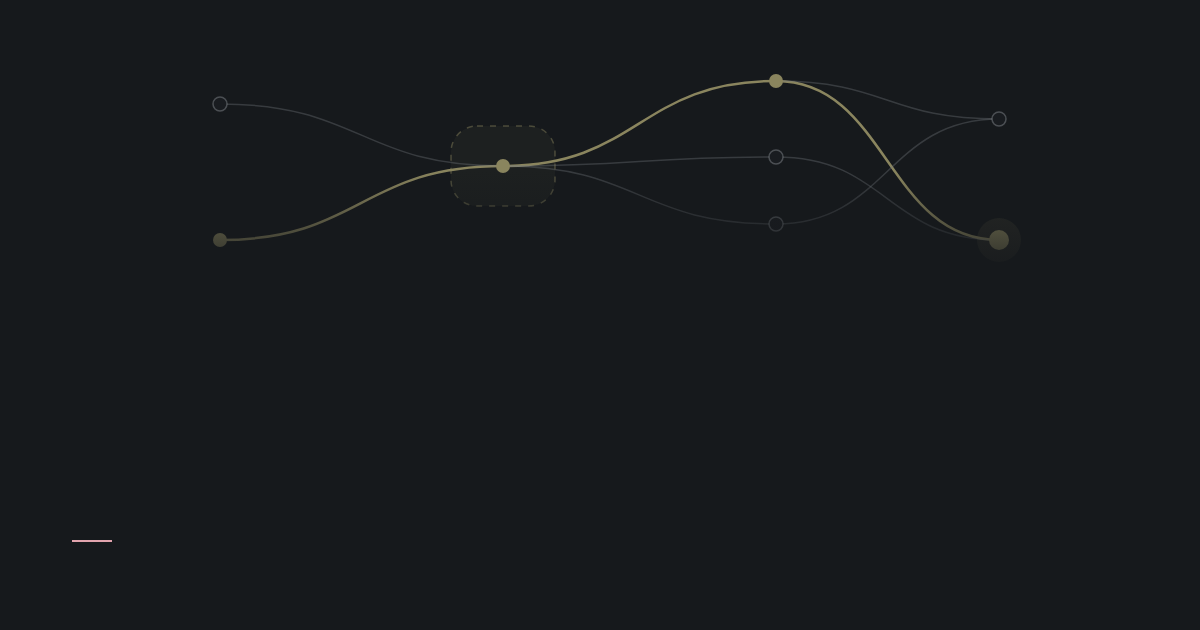
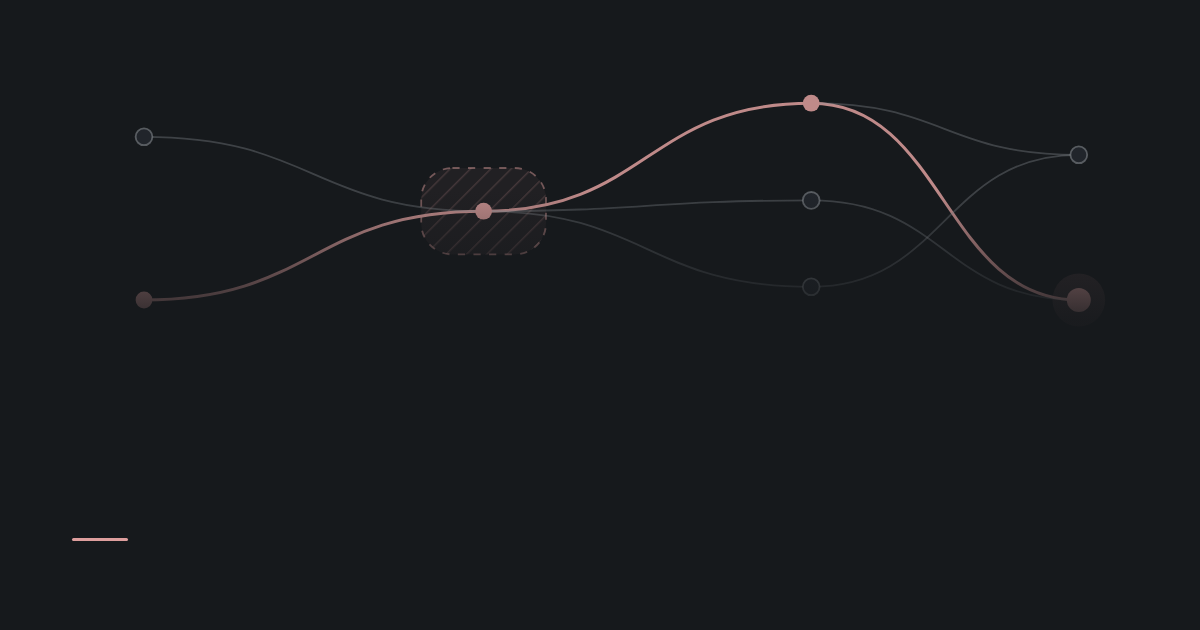
Vary the drawings and social cards: topic colours, outline shapes, hub layout (#41)
* Colour drawings and social cards by topic and vary their shapes

The drawing takes its hue from the page's first topic and the boundary's
from the second, so a topic is recognisable at a glance. Compositions now
vary more: twelve set shapes next to the free flow, three line styles,
three node marks, and a boundary that can carry faint dots or hatching.
A light tint and a soft glow behind the last node give the plate depth.
Social cards set the bar and the label in the topic's tone.

Claude-Session: https://claude.ai/code/session_0175HbppHQcEwuQax9mw2rqe

* Drop the glow behind the last node

Claude-Session: https://claude.ai/code/session_0175HbppHQcEwuQax9mw2rqe

* Pin the verify workflow to ubuntu-24.04

ubuntu-latest now resolves to Ubuntu 26.04, where the pinned Playwright
1.56.1 cannot install Chromium, so every verify job failed before any
build or test ran. Pin the three jobs until Playwright is updated.

Claude-Session: https://claude.ai/code/session_0175HbpkLdyNQ1rSk88TRmXW

* Draw from the article's outline, add a hub layout, topic dots and a pulse

Essays, talks and projects with three or more sections are drawn from
their own outline, and a series moves the boundary along with each part.
A quarter of the pages use a hub layout instead of the flow. Hues move
from inline styles to CSS classes, which also colour a small dot next to
topic names. A dot runs the highlighted path once after it draws in.
[…]

diff --git a/layouts/_partials/diagram.html b/layouts/_partials/diagram.html
@@ -1,77 +1,176 @@
 {{- /*
-Trust Boundaries: a quiet, deterministic flow drawing for any page. A hash of the page's identity
-picks everything: how many columns of nodes, how many nodes per column, which links cross, which
-path is highlighted, where the trust boundary sits and the page's own muted hue. No labels, so
-the drawing stays calm; no two pages share a composition.
+Trust Boundaries: a quiet, deterministic drawing for any page. The page's topics pick the colours.
+An essay, talk or project with three or more sections is drawn from its own outline: one column
+per section, more nodes for a longer or subdivided section, and the boundary on the column of its
+part in a series. Everything else comes from a hash of the page's identity: a set shape for pages
+without an outline, flow or hub layout, line style, node marks, the highlighted path. No labels,
+so the drawing stays calm; no two pages share a composition.
 
 Context: dict "page" PAGE, optional "seed" (string, overrides the page identity),
 "name" (view-transition name), "class".
-Always decorative. Colours come from CSS custom properties, so the drawing follows the theme.
+Always decorative. Colours come from CSS classes and custom properties, so the drawing follows the theme.
 */ -}}
 {{- $p := .page -}}
 {{- $seed := .seed | default (printf "%s|%s" (partial "data/id.html" $p) $p.Title) -}}
 {{- $h := md5 $seed -}}
 {{- $hex := dict "0" 0 "1" 1 "2" 2 "3" 3 "4" 4 "5" 5 "6" 6 "7" 7 "8" 8 "9" 9 "a" 10 "b" 11 "c" 12 "d" 13 "e" 14 "f" 15 -}}
 {{- $n := slice -}}{{- range seq 0 31 -}}{{- $n = $n | append (index $hex (substr $h . 1)) -}}{{- end -}}
-{{- $hue := index (slice 10 55 100 150 195 235 275 320) (mod (index $n 30) 8) -}}
 
-{{- /* Columns of nodes. Middle columns hold 1–3 nodes, the ends 1–2, so the shape varies a lot. */ -}}
-{{- $cols := add 3 (mod (index $n 0) 3) -}}
-{{- $step := div 820 (sub $cols 1) -}}
-{{- $nodes := slice }}{{ $colNodes := slice -}}
-{{- range $c := seq 0 (sub $cols 1) -}}
-  {{- $k := add 1 (mod (index $n (add 6 $c)) 3) -}}
-  {{- if or (eq $c 0) (eq $c (sub $cols 1)) }}{{ $k = add 1 (mod (index $n (add 6 $c)) 2) }}{{ end -}}
-  {{- $x := add (add 190 (mul $c $step)) (mul (sub (index $n (add 1 $c)) 7) 5) -}}
-  {{- $ids := slice -}}
+{{- /* Colour: the first topic's hue for the path (t-<topic>), the second topic's for the boundary
+   (u-<topic>). A page without a topic takes one of eight hues from the hash (h-<n>). */ -}}
+{{- $topics := slice -}}
+{{- with .seed }}{{ with (partial "data/topic.html" .).id }}{{ $topics = slice . }}{{ end }}{{ else }}{{ $topics = partial "data/topics.html" $p }}{{ end -}}
+{{- $tone := printf "h-%d" (mod (index $n 30) 8) -}}
+{{- with index $topics 0 }}{{ $tone = printf "t-%s" . }}{{ end -}}
+{{- if gt (len $topics) 1 }}{{ $tone = printf "%s u-%s" $tone (index $topics 1) }}{{ end -}}
+
+{{- /* Outline: nodes per section, from the section's length against the page's average and
+   whether it has subsections. At most six sections are drawn. */ -}}
+{{- $counts := slice }}{{ $outline := false -}}
+{{- if and (not .seed) (in (slice "essay" "talk" "project") (partial "data/kind.html" $p)) -}}
+  {{- $words := slice }}{{ $subs := slice }}{{ $total := 0 -}}
+  {{- range $i, $s := split $p.RawContent "\n## " }}{{ if and $i (lt (len $words) 6) -}}
+    {{- $w := countwords $s }}{{ $total = add $total $w -}}
+    {{- $words = $words | append $w }}{{ $subs = $subs | append (sub (len (split $s "\n### ")) 1) -}}
+  {{- end }}{{ end -}}
+  {{- if ge (len $words) 3 -}}
+    {{- $outline = true }}{{ $mean := div $total (len $words) -}}
+    {{- range $i, $w := $words -}}
+      {{- $k := 1 -}}
+      {{- if gt (mul $w 4) (mul $mean 3) }}{{ $k = add $k 1 }}{{ end -}}
+      {{- if gt (mul $w 2) (mul $mean 3) }}{{ $k = add $k 1 }}{{ end -}}
+      {{- if index $subs $i }}{{ $k = add $k 1 }}{{ end -}}
+      {{- if and (gt $k 3) (gt (len $words) 4) }}{{ $k = 3 }}{{ end -}}
+      {{- $counts = $counts | append $k -}}
+    {{- end -}}
+  {{- end -}}
+{{- end -}}
+{{- /* Without an outline: a third of the pages get a free flow (1–3 nodes per middle column); the
+   rest take one of the set shapes: fan-out, fan-in, diamond, relay through one party. */ -}}
+{{- if not $outline -}}
+  {{- $shapes := slice (slice 1 2 3 4) (slice 1 3 4) (slice 4 3 2 1) (slice 4 2 1) (slice 1 3 1) (slice 1 2 3 2 1) (slice 1 4 1) (slice 2 1 2) (slice 2 1 3 1) (slice 3 1 3) (slice 2 1 2 1 2) (slice 1 1 3) -}}
+  {{- if lt (index $n 0) 5 -}}
+    {{- $c := add 3 (mod (index $n 0) 3) -}}
+    {{- range $i := seq 0 (sub $c 1) -}}
+      {{- $k := add 1 (mod (index $n (add 6 $i)) 3) -}}
+      {{- if or (eq $i 0) (eq $i (sub $c 1)) }}{{ $k = add 1 (mod (index $n (add 6 $i)) 2) }}{{ end -}}
+      {{- $counts = $counts | append $k -}}
+    {{- end -}}
+  {{- else -}}
+    {{- $counts = index $shapes (mod (add (index $n 0) (index $n 31)) (len $shapes)) -}}
+  {{- end -}}
+{{- end -}}
+{{- $cols := len $counts -}}
+{{- /* Part in a series (0 for the first), or -1. */ -}}
+{{- $part := -1 -}}
+{{- if not .seed }}{{ with partial "data/series.html" $p }}{{ range $i, $sp := .pages }}{{ if eq $sp $p }}{{ $part = $i }}{{ end }}{{ end }}{{ end }}{{ end -}}
+
+{{- $nodes := slice }}{{ $edges := slice }}{{ $path := slice -}}
+{{- $bx := 0 }}{{ $by := 0 }}{{ $bw := 0 }}{{ $bh := 0 -}}
+{{- $hub := lt (index $n 4) 4 -}}
+{{- if $hub -}}
+  {{- /* Hub: one party in the middle, one spoke per section (four to eight), the path in through
+     one spoke and out through another. The boundary sits on the hub or on the path's last node. */ -}}
+  {{- $k := add 5 (mod (index $n 0) 4) -}}
+  {{- if $outline }}{{ $k = cond (lt $cols 4) 4 $cols }}{{ end -}}
+  {{- $cx := add 600 (mul (sub (index $n 1) 7) 6) -}}
+  {{- $nodes = $nodes | append (dict "x" $cx "y" 200 "mark" (mod (index $n 18) 3)) -}}
+  {{- $from := mod (index $n 24) $k }}{{ $to := mod (add $from (add (div $k 2) (mod (index $n 25) 2))) $k -}}
+  {{- $turn := mul (index $n 2) 4 -}}
   {{- range $i := seq 0 (sub $k 1) -}}
-    {{- $gap := cond (eq $k 3) 85 130 -}}
-    {{- $y := add (sub 200 (div (mul $gap (sub $k 1)) 2)) (mul $i $gap) -}}
-    {{- $y = add $y (mul (sub (index $n (mod (add 12 (add (mul $c 3) $i)) 32)) 7) 3) -}}
-    {{- $ids = $ids | append (len $nodes) -}}
-    {{- $nodes = $nodes | append (dict "x" $x "y" $y) -}}
+    {{- $deg := add (add (div (mul 360 $i) $k) $turn) (mul (sub (index $n (add 6 $i)) 7) 2) -}}
+    {{- $rad := div (mul (float $deg) math.Pi) 180 -}}
+    {{- $x := add $cx (int (math.Round (mul 400 (math.Cos $rad)))) }}{{ $y := add 200 (int (math.Round (mul 118 (math.Sin $rad)))) -}}
+    {{- $nodes = $nodes | append (dict "x" $x "y" $y "mark" (mod (index $n (add 19 (mod $i 5))) 3)) -}}
   {{- end -}}
-  {{- $colNodes = $colNodes | append (dict "ids" $ids) -}}
-{{- end -}}
-
-{{- /* Highlighted path: one node per column, chosen by the hash. */ -}}
-{{- $path := slice -}}
-{{- range $c, $col := $colNodes }}{{ $path = $path | append (index $col.ids (mod (index $n (add 24 $c)) (len $col.ids))) }}{{ end -}}
-
-{{- /* Links between neighbouring columns: every node has a way in and out, plus the highlighted path. */ -}}
-{{- $seen := dict }}{{ $edges := slice -}}
-{{- range $c := seq 0 (sub $cols 2) -}}
-  {{- $from := (index $colNodes $c).ids }}{{ $to := (index $colNodes (add $c 1)).ids -}}
-  {{- $pairs := slice (slice (index $path $c) (index $path (add $c 1)) true) -}}
-  {{- range $i, $a := $from }}{{ $pairs = $pairs | append (slice $a (index $to (mod $i (len $to))) false) }}{{ end -}}
-  {{- range $j, $b := $to }}{{ $pairs = $pairs | append (slice (index $from (mod $j (len $from))) $b false) }}{{ end -}}
-  {{- range $pairs -}}
-    {{- $key := printf "%d-%d" (index . 0) (index . 1) -}}
-    {{- if not (index $seen $key) }}{{ $seen = merge $seen (dict $key true) }}{{ $edges = $edges | append (dict "a" (index . 0) "b" (index . 1) "hi" (index . 2)) }}{{ end -}}
+  {{- $edges = slice (dict "a" (add $from 1) "b" 0 "hi" true) (dict "a" 0 "b" (add $to 1) "hi" true) -}}
+  {{- range $i := seq 0 (sub $k 1) }}{{ if and (ne $i $from) (ne $i $to) }}{{ $edges = $edges | append (dict "a" 0 "b" (add $i 1) "hi" false) }}{{ end }}{{ end -}}
+  {{- $path = slice (add $from 1) 0 (add $to 1) -}}
+  {{- $at := index $nodes (cond (eq (mod (index $n 10) 3) 0) (add $to 1) 0) -}}
+  {{- $bx = sub $at.x 70 }}{{ $by = sub $at.y 44 }}{{ $bw = 140 }}{{ $bh = 88 -}}
+{{- else -}}
+  {{- /* Flow: columns of nodes, left to right. */ -}}
+  {{- $step := div 820 (sub $cols 1) -}}
+  {{- $gaps := slice 0 0 130 90 64 -}}
+  {{- $colNodes := slice -}}
+  {{- range $c, $k := $counts -}}
+    {{- $x := add (add 190 (mul $c $step)) (mul (sub (index $n (add 1 $c)) 7) (cond (gt $cols 5) 3 5)) -}}
+    {{- $mark := mod (index $n (add 18 $c)) 3 -}}
+    {{- $ids := slice -}}
+    {{- range $i := seq 0 (sub $k 1) -}}
+      {{- $gap := index $gaps $k -}}
+      {{- $y := add (sub 200 (div (mul $gap (sub $k 1)) 2)) (mul $i $gap) -}}
+      {{- $y = add $y (mul (sub (index $n (mod (add 12 (add (mul $c 3) $i)) 32)) 7) (cond (eq $k 4) 2 3)) -}}
+      {{- $ids = $ids | append (len $nodes) -}}
+      {{- $nodes = $nodes | append (dict "x" $x "y" $y "mark" $mark) -}}
+    {{- end -}}
+    {{- $colNodes = $colNodes | append (dict "ids" $ids) -}}
   {{- end -}}
+  {{- /* Highlighted path: one node per column, chosen by the hash. */ -}}
+  {{- range $c, $col := $colNodes }}{{ $path = $path | append (index $col.ids (mod (index $n (add 24 $c)) (len $col.ids))) }}{{ end -}}
+  {{- /* Links between neighbouring columns: every node has a way in and out, plus the highlighted path. */ -}}
+  {{- $seen := dict -}}
+  {{- range $c := seq 0 (sub $cols 2) -}}
+    {{- $from := (index $colNodes $c).ids }}{{ $to := (index $colNodes (add $c 1)).ids -}}
+    {{- $pairs := slice (slice (index $path $c) (index $path (add $c 1)) true) -}}
+    {{- range $i, $a := $from }}{{ $pairs = $pairs | append (slice $a (index $to (mod $i (len $to))) false) }}{{ end -}}
+    {{- range $j, $b := $to }}{{ $pairs = $pairs | append (slice (index $from (mod $j (len $from))) $b false) }}{{ end -}}
+    {{- range $pairs -}}
+      {{- $key := printf "%d-%d" (index . 0) (index . 1) -}}
+      {{- if not (index $seen $key) }}{{ $seen = merge $seen (dict $key true) }}{{ $edges = $edges | append (dict "a" (index . 0) "b" (index . 1) "hi" (index . 2)) }}{{ end -}}
+    {{- end -}}
+  {{- end -}}
+  {{- /* Trust boundary around one or two neighbouring columns (never the first). In a series it
+     sits on the column of the page's part, so it moves along from one part to the next. */ -}}
+  {{- $b0 := add 1 (mod (index $n 10) (sub $cols 1)) -}}
+  {{- if ge $part 0 }}{{ $b0 = add 1 (mod $part (sub $cols 1)) }}{{ end -}}
+  {{- $b1 := $b0 }}{{ if and (eq (mod (index $n 11) 3) 0) (lt (add $b0 1) $cols) }}{{ $b1 = add $b0 1 }}{{ end -}}
+  {{- $minx := 2000 }}{{ $maxx := 0 }}{{ $miny := 2000 }}{{ $maxy := 0 -}}
+  {{- range seq $b0 $b1 }}{{ range (index $colNodes .).ids }}{{ $nd := index $nodes . -}}
+    {{- $minx = cond (lt $nd.x $minx) $nd.x $minx }}{{ $maxx = cond (gt $nd.x $maxx) $nd.x $maxx -}}
+    {{- $miny = cond (lt $nd.y $miny) $nd.y $miny }}{{ $maxy = cond (gt $nd.y $maxy) $nd.y $maxy -}}
+  {{- end }}{{ end -}}
+  {{- $bx = sub $minx 52 }}{{ $by = sub $miny 36 }}{{ $bw = add (sub $maxx $minx) 104 }}{{ $bh = add (sub $maxy $miny) 72 -}}
 {{- end -}}
-
-{{- /* Trust boundary around one or two neighbouring columns (never the first). */ -}}
-{{- $b0 := add 1 (mod (index $n 10) (sub $cols 1)) -}}
-{{- $b1 := $b0 }}{{ if and (eq (mod (index $n 11) 3) 0) (lt (add $b0 1) $cols) }}{{ $b1 = add $b0 1 }}{{ end -}}
-{{- $minx := 2000 }}{{ $maxx := 0 }}{{ $miny := 2000 }}{{ $maxy := 0 -}}
-{{- range seq $b0 $b1 }}{{ range (index $colNodes .).ids }}{{ $nd := index $nodes . -}}
-  {{- $minx = cond (lt $nd.x $minx) $nd.x $minx }}{{ $maxx = cond (gt $nd.x $maxx) $nd.x $maxx -}}
-  {{- $miny = cond (lt $nd.y $miny) $nd.y $miny }}{{ $maxy = cond (gt $nd.y $maxy) $nd.y $maxy -}}
-{{- end }}{{ end -}}
-{{- $bx := sub $minx 52 }}{{ $by := sub $miny 40 }}{{ $bw := add (sub $maxx $minx) 104 }}{{ $bh := add (sub $maxy $miny) 80 -}}
-{{- $end := index $nodes (index $path (sub $cols 1)) -}}
-{{- $style := printf "--h: %d" $hue }}{{ with .name }}{{ $style = printf "%s; view-transition-name: %s" $style . }}{{ end -}}
-<svg class="diagram {{ .class }}" viewBox="0 0 1200 400" xmlns="http://www.w3.org/2000/svg" preserveAspectRatio="xMidYMid slice" aria-hidden="true" focusable="false" style="{{ $style | safeCSS }}">
+{{- $endId := index $path (sub (len $path) 1) }}{{ $end := index $nodes $endId -}}
+{{- $id := substr $h 0 6 -}}
+{{- $line := index (slice 0 0 0 0 0 0 0 0 2 2 2 2 2 1 1 1) (index $n 5) -}}
+{{- if $hub }}{{ $line = 1 }}{{ end -}}
+{{- $fill := mod (index $n 29) 3 -}}
+{{- $pulses := slice -}}
+<svg class="diagram {{ $tone }}{{ with .class }} {{ . }}{{ end }}" viewBox="0 0 1200 400" xmlns="http://www.w3.org/2000/svg" preserveAspectRatio="xMidYMid slice" aria-hidden="true" focusable="false"{{ with .name }} style="{{ printf "view-transition-name: %s" . | safeCSS }}"{{ end }}>
+{{ if $fill }}<defs>
+{{- if eq $fill 1 }}<pattern id="p{{ $id }}" width="18" height="18" patternUnits="userSpaceOnUse"><circle cx="9" cy="9" r="1.2" class="d-fill"/></pattern>{{ end -}}
+{{- if eq $fill 2 }}<pattern id="p{{ $id }}" width="12" height="12" patternUnits="userSpaceOnUse" patternTransform="rotate(45)"><rect width="1.2" height="12" class="d-fill"/></pattern>{{ end -}}
+</defs>{{ end }}
 <rect width="1200" height="400" class="d-ground"/>
+{{- if $fill }}
+<rect x="{{ $bx }}" y="{{ $by }}" width="{{ $bw }}" height="{{ $bh }}" rx="26" fill="url(#p{{ $id }})"/>
+{{- end }}
 <rect x="{{ $bx }}" y="{{ $by }}" width="{{ $bw }}" height="{{ $bh }}" rx="26" class="d-boundary"/>
-{{- range $ei, $e := $edges -}}
-  {{- $a := index $nodes $e.a }}{{ $b := index $nodes $e.b }}{{ $mx := div (add $a.x $b.x) 2 }}
-<path d="M{{ $a.x }} {{ $a.y }}C{{ $mx }} {{ $a.y }} {{ $mx }} {{ $b.y }} {{ $b.x }} {{ $b.y }}" class="d-edge{{ if $e.hi }} hi{{ end }}"{{ if $e.hi }} pathLength="1" style="--i: {{ $ei }}"{{ end }}/>
+{{- range $e := $edges -}}
+  {{- $a := index $nodes $e.a }}{{ $b := index $nodes $e.b }}{{ $mx := div (add $a.x $b.x) 2 -}}
+  {{- $d := printf "M%d %dC%d %d %d %d %d %d" $a.x $a.y $mx $a.y $mx $b.y $b.x $b.y -}}
+  {{- if eq $line 1 }}{{ $d = printf "M%d %dL%d %d" $a.x $a.y $b.x $b.y }}{{ end -}}
+  {{- if eq $line 2 -}}
+    {{- $dy := sub $b.y $a.y }}{{ $ady := cond (lt $dy 0) (sub 0 $dy) $dy -}}
+    {{- $dx := sub $b.x $a.x }}{{ $adx := cond (lt $dx 0) (sub 0 $dx) $dx -}}
+    {{- $r := cond (lt $ady 32) (div $ady 2) 16 }}{{ $r = cond (lt $adx (mul $r 2)) (div $adx 2) $r -}}
+    {{- $ry := cond (lt $dy 0) (sub 0 $r) $r }}{{ $rx := cond (lt $dx 0) (sub 0 $r) $r -}}
+    {{- $d = printf "M%d %dH%dQ%d %d %d %dV%dQ%d %d %d %dH%d" $a.x $a.y (sub $mx $rx) $mx $a.y $mx (add $a.y $ry) (sub $b.y $ry) $mx $b.y (add $mx $rx) $b.y $b.x -}}
+  {{- end -}}
+  {{- if $e.hi }}{{ $pulses = $pulses | append $d }}{{ end }}
+<path d="{{ $d }}" class="d-edge{{ if $e.hi }} hi{{ end }}"{{ if $e.hi }} pathLength="1"{{ end }}/>
+{{- end }}
+{{- range $i, $d := $pulses }}
+<path d="{{ $d }}" class="d-pulse s{{ $i }}" pathLength="1"/>
 {{- end }}
 <circle cx="{{ $end.x }}" cy="{{ $end.y }}" r="22" class="d-halo"/>
-{{- range $i, $nd := $nodes }}
-<circle cx="{{ $nd.x }}" cy="{{ $nd.y }}" r="{{ cond (eq $i (index $path (sub $cols 1))) 10 7 }}" class="d-node{{ if in $path $i }} hi{{ end }}"/>
+{{- range $i, $nd := $nodes -}}
+  {{- $last := eq $i $endId }}{{ $r := cond $last 10 7 }}{{ $class := printf "d-node%s" (cond (in $path $i) " hi" "") }}
+{{ if eq $nd.mark 1 }}<rect x="{{ sub $nd.x $r }}" y="{{ sub $nd.y $r }}" width="{{ mul $r 2 }}" height="{{ mul $r 2 }}" rx="3" class="{{ $class }}"/>
+{{- else if eq $nd.mark 2 }}{{ $q := add $r 2 }}<path d="M{{ $nd.x }} {{ sub $nd.y $q }}l{{ $q }} {{ $q }}-{{ $q }} {{ $q }}-{{ $q }}-{{ $q }}z" class="{{ $class }}"/>
+{{- else }}<circle cx="{{ $nd.x }}" cy="{{ $nd.y }}" r="{{ $r }}" class="{{ $class }}"/>{{ end }}
 {{- end }}
 </svg>
 {{- /* end diagram */ -}}

diff --git a/assets/css/site.css b/assets/css/site.css
@@ -514,20 +514,34 @@
 }
 
 @layer diagram {
-  /* Each drawing sets its own hue (--h); tone and lightness are shared, so all of them stay quiet. */
-  .diagram { --dg: var(--ground-2); --tone: light-dark(oklch(55% 0.1 var(--h, 8)), oklch(76% 0.075 var(--h, 8))); }
+  /* A drawing takes its hues from the page's topics: t-<topic> for the path, u-<topic> for the boundary; h-<n> without a
+     topic. Tone and lightness are shared, so all of them stay quiet. The same tone colours the topic dots. */
+  .t-agentic-engineering { --h: 290; } .t-identity-authentication { --h: 240; } .t-application-security { --h: 20; } .t-passwords { --h: 75; } .t-tokens-jwt { --h: 150; } .t-engineering-practice { --h: 195; }
+  .u-agentic-engineering { --h2: 290; } .u-identity-authentication { --h2: 240; } .u-application-security { --h2: 20; } .u-passwords { --h2: 75; } .u-tokens-jwt { --h2: 150; } .u-engineering-practice { --h2: 195; }
+  .h-0 { --h: 10; } .h-1 { --h: 55; } .h-2 { --h: 100; } .h-3 { --h: 150; } .h-4 { --h: 195; } .h-5 { --h: 235; } .h-6 { --h: 275; } .h-7 { --h: 320; }
+  .diagram, .dot { --tone: light-dark(oklch(55% 0.1 var(--h, 8)), oklch(76% 0.075 var(--h, 8))); }
+  .diagram { --tone2: light-dark(oklch(55% 0.1 var(--h2, var(--h, 8))), oklch(76% 0.075 var(--h2, var(--h, 8)))); --dg: color-mix(in oklch, var(--tone) 5%, var(--ground-2)); }
+  .dot { display: inline-block; width: 0.5em; height: 0.5em; border-radius: 50%; background: var(--tone); margin-right: 0.4em; vertical-align: 0.08em; }
   .diagram .d-ground { fill: var(--dg); }
-  .diagram .d-boundary { fill: color-mix(in oklch, var(--tone) 7%, transparent); stroke: color-mix(in oklch, var(--tone) 45%, transparent); stroke-width: 1.5; stroke-dasharray: 6 7; }
+  .diagram .d-fill { fill: color-mix(in oklch, var(--tone2) 22%, transparent); }
+  .diagram .d-boundary { fill: color-mix(in oklch, var(--tone2) 7%, transparent); stroke: color-mix(in oklch, var(--tone2) 55%, transparent); stroke-width: 1.5; stroke-dasharray: 6 7; }
   .diagram .d-edge { fill: none; stroke: color-mix(in oklch, var(--ink-2) 35%, transparent); stroke-width: 1.5; }
-  .diagram .d-edge.hi { stroke: var(--tone); stroke-width: 2.5; stroke-linecap: round; stroke-dasharray: 1; stroke-dashoffset: 0; }
+  .diagram .d-edge.hi { stroke: var(--tone); stroke-width: 2.5; stroke-linecap: round; stroke-linejoin: round; stroke-dasharray: 1; stroke-dashoffset: 0; }
   .diagram .d-node { fill: var(--dg); stroke: color-mix(in oklch, var(--ink-2) 55%, transparent); stroke-width: 1.5; }
   .diagram .d-node.hi { fill: var(--tone); stroke: none; }
   .diagram .d-halo { fill: color-mix(in oklch, var(--tone) 16%, transparent); }
+  /* The pulse: a dot (a zero-length dash with a round cap) that runs the highlighted path once, segment by segment. */
+  .diagram .d-pulse { fill: none; stroke: color-mix(in oklch, var(--tone) 45%, var(--ink)); stroke-width: 7; stroke-linecap: round; stroke-dasharray: 0 1; opacity: 0; }
+  .s1 { --s: 1; } .s2 { --s: 2; } .s3 { --s: 3; } .s4 { --s: 4; }
   @media (prefers-reduced-motion: no-preference) {
     .diagram .d-edge.hi { animation: draw 1.2s var(--ease) backwards; animation-delay: 200ms; }
     .diagram .d-halo { animation: fade 0.8s var(--ease) backwards; animation-delay: 1s; }
+    .diagram .d-pulse { animation: pulse 0.5s linear calc(1.6s + var(--s, 0) * 0.5s); }
+    a:hover > .diagram .d-pulse { animation: pulse-again 0.5s linear calc(var(--s, 0) * 0.5s); }
     @keyframes draw { from { stroke-dashoffset: 1; } }
     @keyframes fade { from { opacity: 0; } }
+    @keyframes pulse { from { stroke-dashoffset: 0; opacity: 1; } to { stroke-dashoffset: -1; opacity: 1; } }
+    @keyframes pulse-again { from { stroke-dashoffset: 0; opacity: 1; } to { stroke-dashoffset: -1; opacity: 1; } }
   }
   @media (prefers-reduced-motion: reduce) {
     @view-transition { navigation: none; }

diff --git a/layouts/_partials/social-card.html b/layouts/_partials/social-card.html
@@ -11,11 +11,17 @@
   {{- if .IsHome }}{{ $title = site.Params.statement }}{{ end -}}
   {{- $size := 64 }}{{ if gt (len $title) 60 }}{{ $size = 54 }}{{ end }}{{ if gt (len $title) 95 }}{{ $size = 46 }}{{ end -}}
   {{- $label := "JANBRENNENSTUHL.EU" -}}
-  {{- with partial "data/topic.html" $topic }}{{ $label = printf "%s  /  %s" $label (upper .title) }}{{ end -}}
+  {{- $tone := "#e2a4ae" -}}
+  {{- with partial "data/topic.html" $topic }}{{ $label = printf "%s  /  %s" $label (upper .title) }}{{ with .card }}{{ $tone = . }}{{ end }}{{ end -}}
   {{- $filters := slice
     (images.Text $title (dict "font" $font "size" $size "linespacing" (int (mul $size 0.18)) "x" 72 "y" 330 "color" "#dfe1e5"))
-    (images.Text $label (dict "font" $mono "size" 22 "x" 72 "y" 560 "color" "#e2a4ae"))
+    (images.Text $label (dict "font" $mono "size" 22 "x" 72 "y" 560 "color" $tone))
   -}}
+  {{- /* Kind and month on the right, for dated entries. */ -}}
+  {{- if and $eligible (not .Date.IsZero) (in (slice "essay" "guide" "talk" "project") (partial "data/kind.html" .)) -}}
+    {{- $what := printf "%s  /  %s" (upper (partial "ui/kind-label.html" (partial "data/kind.html" .))) (upper (.Date.Format "Jan 2006")) -}}
+    {{- $filters = $filters | append (images.Text $what (dict "font" $mono "size" 22 "x" 1128 "y" 560 "alignx" "right" "color" "#a4a8ae")) -}}
+  {{- end -}}
   {{- $target := printf "%ssocial.png" (strings.TrimPrefix "/" .RelPermalink) -}}
   {{- $card = $base | images.Filter $filters | resources.Copy $target -}}
 {{- end -}}

diff --git a/layouts/section.html b/layouts/section.html
@@ -26,7 +26,7 @@
 <header class="wrap page-header"><h1>{{ .Title }}</h1><p class="lead">{{ .Description }}</p></header>
 <div class="wrap topic-cards">
   {{- range hugo.Data.topics.topic }}{{ $t := . }}{{ with site.GetPage (printf "/topics/%s" .id) }}
-  <a class="topic-card" href="{{ .RelPermalink }}">{{ partial "diagram.html" (dict "page" . "seed" $t.id "class" "mini") }}<span class="topic-card-text"><span class="topic-card-title">{{ $t.title }}</span><span>{{ $t.description }}</span><span class="count">{{ index (partialCached "data/topic-counts.html" . "all") $t.id | default 0 }} entries</span></span></a>
+  <a class="topic-card" href="{{ .RelPermalink }}">{{ partial "diagram.html" (dict "page" . "seed" $t.id "class" "mini") }}<span class="topic-card-text"><span class="topic-card-title"><span class="dot t-{{ $t.id }}" aria-hidden="true"></span>{{ $t.title }}</span><span>{{ $t.description }}</span><span class="count">{{ index (partialCached "data/topic-counts.html" . "all") $t.id | default 0 }} entries</span></span></a>
   {{- end }}{{ end }}
 </div>
 {{- else if eq .Section "knowledge-base" -}}

diff --git a/layouts/_partials/ui/eyebrow.html b/layouts/_partials/ui/eyebrow.html
@@ -1,6 +1,6 @@
 {{- $kind := partial "data/kind.html" . -}}
 <p class="eyebrow">
   <span>{{ partial "ui/kind-label.html" $kind }}</span>
-  {{- range partial "data/topics.html" . }}{{ with partial "data/topic.html" . }} <span aria-hidden="true">/</span> <a class="chip" href="/topics/{{ .id }}/">{{ .title }}</a>{{ end }}{{ end }}
+  {{- range partial "data/topics.html" . }}{{ with partial "data/topic.html" . }} <span aria-hidden="true">/</span> <a class="chip" href="/topics/{{ .id }}/"><span class="dot t-{{ .id }}" aria-hidden="true"></span>{{ .title }}</a>{{ end }}{{ end }}
   {{- with partial "data/series.html" . }} <span aria-hidden="true">/</span> <a href="#series">Series: {{ .title }}</a>{{ end }}
 </p>

diff --git a/layouts/_partials/row.html b/layouts/_partials/row.html
@@ -1,5 +1,5 @@
 {{- $kind := partial "data/kind.html" . -}}
 <li class="row">
-  <a href="{{ .RelPermalink }}"><span class="row-title">{{ .Title }}</span></a>
+  <a href="{{ .RelPermalink }}"><span class="row-title">{{ with index (partial "data/topics.html" .) 0 }}<span class="dot t-{{ . }}" aria-hidden="true"></span>{{ end }}{{ .Title }}</span></a>
   <span class="row-meta"><time datetime="{{ .Date.Format "2006-01-02" }}">{{ .Date.Format "Jan 2006" }}</time>{{ if ne $kind "essay" }} <span class="kind">{{ partial "ui/kind-label.html" $kind }}</span>{{ end }}{{ with partial "data/series.html" . }} <span class="series">{{ .title }}</span>{{ end }}</span>
 </li>

diff --git a/layouts/_partials/ui/topic-nav.html b/layouts/_partials/ui/topic-nav.html
@@ -2,6 +2,6 @@
 {{- $counts := partialCached "data/topic-counts.html" . "all" -}}
 <ul class="topic-nav">
 {{- range hugo.Data.topics.topic }}{{ $t := . }}{{ with index $counts $t.id }}
-  <li><a href="/topics/{{ $t.id }}/"><span class="topic-nav-title">{{ $t.title }}</span> <span class="count">{{ . }} entries</span></a><p>{{ $t.description }}</p></li>
+  <li><a href="/topics/{{ $t.id }}/"><span class="topic-nav-title"><span class="dot t-{{ $t.id }}" aria-hidden="true"></span>{{ $t.title }}</span> <span class="count">{{ . }} entries</span></a><p>{{ $t.description }}</p></li>
 {{- end }}{{ end }}
 </ul>

diff --git a/docs/DESIGN.md b/docs/DESIGN.md
@@ -56,17 +56,22 @@ The header has one setting: a light/dark toggle. It follows the system until use
 
 ## The drawing
 
-`layouts/_partials/diagram.html` draws a deterministic, label-free SVG for any page. An MD5 of the page's ID and title (or a `seed`, such as a topic ID on topic pages) decides everything:
+`layouts/_partials/diagram.html` draws a deterministic, label-free SVG for any page. The page's topics decide the colour, its outline the shape, and an MD5 of the page's ID and title (or a `seed`, such as a topic ID on topic pages) the rest:
 
-- 3–5 columns of nodes, 1–3 nodes per middle column and 1–2 at the ends, with small offsets;
-- links so every node has a way in and out, drawn as thin neutral curves;
-- one highlighted path, one node per column, in the page's tone, ending in a node with a soft halo;
-- one dashed trust boundary around one or two neighbouring columns (never the first);
-- the page's hue, one of eight (10, 55, 100, 150, 195, 235, 275, 320). Lightness and chroma are shared, so every hue is equally quiet.
+- **Colour.** The hue of the page's first topic for the highlighted path and the plate's faint tint; the second topic's hue, if there is one, for the trust boundary. The hues are CSS classes in `assets/css/site.css`: `t-<topic>` sets `--h`, `u-<topic>` sets `--h2` (Agents 290, Identity 240, AppSec 20, Passwords 75, Tokens 150, Engineering 195). A page without a topic gets one of eight hues from the hash (`h-<n>`). Lightness and chroma are shared, so every hue is equally quiet. Classes, not inline styles, so the drawing keeps its colour under `style-src 'self'`.
+- **Shape from the outline.** An essay, talk or project with three or more `##` sections gets one column per section (the first six). A section has one node, one more if it is longer than three quarters of the page's average section, another if it is longer than one and a half times the average, and another if it has `###` subsections (four at most, three when there are five or six columns). In a series the trust boundary sits on the column of the page's part, so it moves along from one part to the next.
+- **Shape without an outline** (field-guide entries, which share one structure, topic pages and short posts): a free flow of 3–5 columns with 1–3 nodes each, or one of twelve set shapes (fan-out, fan-in, diamond, relay through a single party).
+- **Layout.** Three quarters of the pages are a flow from left to right. A quarter are a hub: one party in the middle with one spoke per section (four to eight), the path in through one spoke and out through another, and the boundary on the hub or on the path's last node.
+- **Line style:** curves (half of the flows), right-angled runs with rounded corners, or straight lines (always in a hub).
+- **Node marks** per column: circle, square or diamond.
+- Links so every node has a way in and out, drawn thin and neutral, and one highlighted path ending in a node with a soft halo.
+- One dashed trust boundary, plain or filled with faint dots or hatching.
 
-So no two pages share a composition, and pages in the same topic no longer look alike. The drawing is always decorative (`aria-hidden`); explanatory figures use `figure-diagram` with a text alternative. Colours come from the tokens and `--h`, so the same SVG works in both themes. The highlighted path draws in once on load; under `prefers-reduced-motion` everything is static. The same `view-transition-name` on the home flagship and its article lets the drawing carry across the navigation (`@view-transition { navigation: auto; }`, CSS only). Article and flagship drawings sit inside the content width as a rounded plate, 4:1 on wide screens and 5:2 on narrow ones.
+So no two pages share a composition, and a topic is recognisable by its colour without its pages looking alike. Colour never carries the topic alone: the eyebrow names it. The same tone is the small dot (`.dot`) before a topic's name in the eyebrow, the topic rows and cards, and before a title in the writing lists.
 
-Social cards reuse it: `assets/cards/pages/<id>.png` is each article's own drawing, drawn on every CI build by `scripts/card-plates.sh` and not committed, and `assets/cards/<topic>.png` the committed topic drawings (the fallback for pages without their own plate, e.g. in a local build), all rendered at 1200×630 in the dark theme; Hugo's `images.Text` writes the title (Geist Bold) and the topic label (Geist Mono) at build time. To regenerate the topic plates after changing the drawing or the palette: build, serve on port 8000, then run `node scripts/card-plates.cjs`. To see article cards locally, run `./scripts/card-plates.sh` before `./scripts/verify.sh`.
+Motion, only without `prefers-reduced-motion`: the highlighted path draws in once on load, the halo fades in, then a small dot runs the path once (a zero-length dash with a round cap, one segment after the other). Hovering a linked drawing, such as a topic card, runs the dot again. The drawing is always decorative (`aria-hidden`); explanatory figures use `figure-diagram` with a text alternative. Colours come from the tokens and `--h`, so the same SVG works in both themes. Under `prefers-reduced-motion` everything is static. The same `view-transition-name` on the home flagship and its article lets the drawing carry across the navigation (`@view-transition { navigation: auto; }`, CSS only). Article and flagship drawings sit inside the content width as a rounded plate, 4:1 on wide screens and 5:2 on narrow ones.
+
+Social cards reuse it: `assets/cards/pages/<id>.png` is each article's own drawing, drawn on every CI build by `scripts/card-plates.sh` and not committed, and `assets/cards/<topic>.png` the committed topic drawings (the fallback for pages without their own plate, e.g. in a local build), all rendered at 1200×630 in the dark theme. The drawing is set 1.2 times larger than the card and fades out behind the title. Hugo's `images.Text` writes the title (Geist Bold), the topic label on the left (Geist Mono, in the topic's tone: `card` in `data/topics.toml`, the hue as sRGB) and the kind and month on the right at build time; the short bar above the label is drawn into the plate in the same tone. To regenerate the topic plates after changing the drawing or the palette: build, serve on port 8000, then run `node scripts/card-plates.cjs`. To see article cards locally, run `./scripts/card-plates.sh` before `./scripts/verify.sh`.
 
 ## Layout
 
